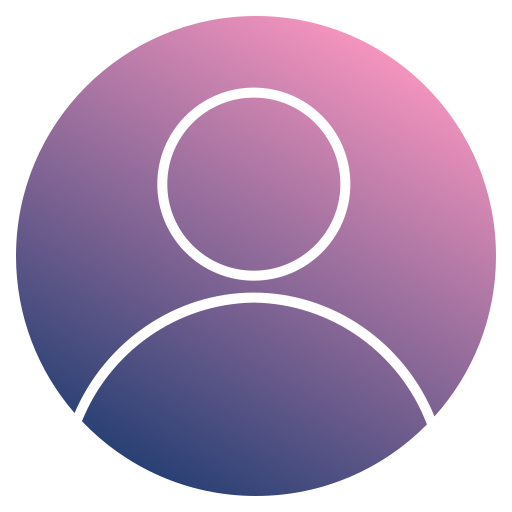
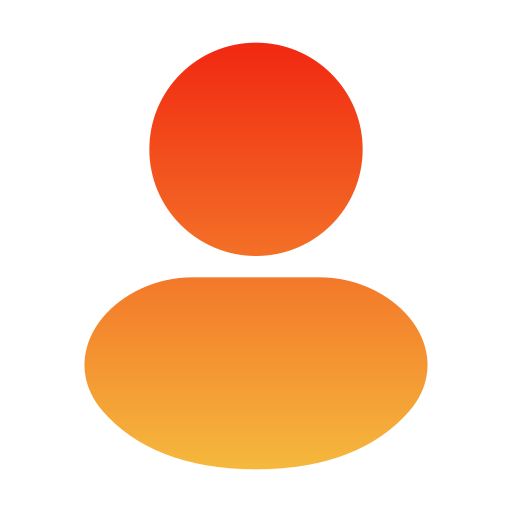
add new imgs to match the theme

diff --git a/src/Pages/Auth/Signup.tsx b/src/Pages/Auth/Signup.tsx
@@ -82,8 +82,8 @@ export default function Signup() {
       <div className="flex items-center justify-center py-8 px-4 sm:py-12">
         <div className="w-full max-w-md bg-white dark:bg-gray-900 rounded-2xl border border-gray-200 dark:border-gray-800 shadow-sm p-6 sm:p-8">
           <div className="flex items-center gap-3 mb-8">
-            <div className="w-10 h-10 bg-emerald-600 rounded-lg flex items-center justify-center">
-              <span className="text-white font-bold text-lg">S</span>
+            <div className="w-10 h-10 bg-amber-500 rounded-lg flex items-center justify-center">
+              <span className="text-gray-900 font-bold text-lg">S</span>
             </div>
             <h1 className="text-xl sm:text-2xl font-bold text-gray-900 dark:text-white">
               SkillSync
@@ -100,7 +100,7 @@ export default function Signup() {
                 onClick={() => handleRoleChange("customer")}
                 className={`flex-1 py-2 px-4 rounded-xl font-medium transition ${
                   formData.role === "customer"
-                    ? "bg-emerald-600 text-white"
+                    ? "bg-amber-500 text-gray-900"
                     : "bg-gray-100 dark:bg-gray-800 text-gray-700 dark:text-gray-300 hover:bg-gray-200 dark:hover:bg-gray-700"
                 }`}
               >
@@ -111,7 +111,7 @@ export default function Signup() {
                 onClick={() => handleRoleChange("freelancer")}
                 className={`flex-1 py-2 px-4 rounded-xl font-medium transition ${
                   formData.role === "freelancer"
-                    ? "bg-emerald-600 text-white"
+                    ? "bg-amber-500 text-gray-900"
                     : "bg-gray-100 dark:bg-gray-800 text-gray-700 dark:text-gray-300 hover:bg-gray-200 dark:hover:bg-gray-700"
                 }`}
               >
@@ -133,7 +133,7 @@ export default function Signup() {
                 onChange={handleChange}
                 placeholder="John Doe"
                 required
-                className="w-full px-4 py-2.5 bg-white dark:bg-gray-800 border border-gray-300 dark:border-gray-700 rounded-xl text-gray-900 dark:text-white placeholder-gray-400 dark:placeholder-gray-500 focus:outline-none focus:ring-2 focus:ring-emerald-500 focus:border-transparent transition"
+                className="w-full px-4 py-2.5 bg-white dark:bg-gray-800 border border-gray-300 dark:border-gray-700 rounded-xl text-gray-900 dark:text-white placeholder-gray-400 dark:placeholder-gray-500 focus:outline-none focus:ring-2 focus:ring-amber-500 focus:border-transparent transition"
               />
             </div>
 
@@ -149,7 +149,7 @@ export default function Signup() {
                 onChange={handleChange}
                 placeholder="you@example.com"
                 required
-                className="w-full px-4 py-2.5 bg-white dark:bg-gray-800 border border-gray-300 dark:border-gray-700 rounded-xl text-gray-900 dark:text-white placeholder-gray-400 dark:placeholder-gray-500 focus:outline-none focus:ring-2 focus:ring-emerald-500 focus:border-transparent transition"
+                className="w-full px-4 py-2.5 bg-white dark:bg-gray-800 border border-gray-300 dark:border-gray-700 rounded-xl text-gray-900 dark:text-white placeholder-gray-400 dark:placeholder-gray-500 focus:outline-none focus:ring-2 focus:ring-amber-500 focus:border-transparent transition"
               />
             </div>
 
@@ -165,7 +165,7 @@ export default function Signup() {
                 onChange={handleChange}
                 placeholder="••••••••"
                 required
-                className="w-full px-4 py-2.5 bg-white dark:bg-gray-800 border border-gray-300 dark:border-gray-700 rounded-xl text-gray-900 dark:text-white placeholder-gray-400 dark:placeholder-gray-500 focus:outline-none focus:ring-2 focus:ring-emerald-500 focus:border-transparent transition"
+                className="w-full px-4 py-2.5 bg-white dark:bg-gray-800 border border-gray-300 dark:border-gray-700 rounded-xl text-gray-900 dark:text-white placeholder-gray-400 dark:placeholder-gray-500 focus:outline-none focus:ring-2 focus:ring-amber-500 focus:border-transparent transition"
               />
             </div>
 
@@ -181,7 +181,7 @@ export default function Signup() {
                 onChange={handleChange}
                 placeholder="+46 70 123 45 67"
                 required
-                className="w-full px-4 py-2.5 bg-white dark:bg-gray-800 border border-gray-300 dark:border-gray-700 rounded-xl text-gray-900 dark:text-white placeholder-gray-400 dark:placeholder-gray-500 focus:outline-none focus:ring-2 focus:ring-emerald-500 focus:border-transparent transition"
+                className="w-full px-4 py-2.5 bg-white dark:bg-gray-800 border border-gray-300 dark:border-gray-700 rounded-xl text-gray-900 dark:text-white placeholder-gray-400 dark:placeholder-gray-500 focus:outline-none focus:ring-2 focus:ring-amber-500 focus:border-transparent transition"
               />
             </div>
 
@@ -195,7 +195,7 @@ export default function Signup() {
                   name="occupation"
                   value={formData.occupation}
                   onChange={handleChange}
-                  className="w-full px-4 py-2.5 bg-white dark:bg-gray-800 border border-gray-300 dark:border-gray-700 rounded-xl text-gray-900 dark:text-white focus:outline-none focus:ring-2 focus:ring-emerald-500 focus:border-transparent transition"
+                  className="w-full px-4 py-2.5 bg-white dark:bg-gray-800 border border-gray-300 dark:border-gray-700 rounded-xl text-gray-900 dark:text-white focus:outline-none focus:ring-2 focus:ring-amber-500 focus:border-transparent transition"
                 >
                   {(Object.keys(occupationLabels) as Occupation[]).map(
                     (occ) => (
@@ -222,7 +222,7 @@ export default function Signup() {
                     onChange={handleChange}
                     placeholder="e.g. Graphic Design"
                     required
-                    className="w-full px-4 py-2.5 bg-white dark:bg-gray-800 border border-gray-300 dark:border-gray-700 rounded-xl text-gray-900 dark:text-white placeholder-gray-400 dark:placeholder-gray-500 focus:outline-none focus:ring-2 focus:ring-emerald-500 focus:border-transparent transition"
+                    className="w-full px-4 py-2.5 bg-white dark:bg-gray-800 border border-gray-300 dark:border-gray-700 rounded-xl text-gray-900 dark:text-white placeholder-gray-400 dark:placeholder-gray-500 focus:outline-none focus:ring-2 focus:ring-amber-500 focus:border-transparent transition"
                   />
                 </div>
               )}
@@ -240,7 +240,7 @@ export default function Signup() {
                   onChange={handleChange}
                   placeholder="35"
                   required
-                  className="w-full px-4 py-2.5 bg-white dark:bg-gray-800 border border-gray-300 dark:border-gray-700 rounded-xl text-gray-900 dark:text-white placeholder-gray-400 dark:placeholder-gray-500 focus:outline-none focus:ring-2 focus:ring-emerald-500 focus:border-transparent transition"
+                  className="w-full px-4 py-2.5 bg-white dark:bg-gray-800 border border-gray-300 dark:border-gray-700 rounded-xl text-gray-900 dark:text-white placeholder-gray-400 dark:placeholder-gray-500 focus:outline-none focus:ring-2 focus:ring-amber-500 focus:border-transparent transition"
                 />
               </div>
             )}
@@ -257,7 +257,7 @@ export default function Signup() {
                   onChange={handleChange}
                   placeholder="Tell customers about yourself..."
                   rows={3}
-                  className="w-full px-4 py-2.5 bg-white dark:bg-gray-800 border border-gray-300 dark:border-gray-700 rounded-xl text-gray-900 dark:text-white placeholder-gray-400 dark:placeholder-gray-500 focus:outline-none focus:ring-2 focus:ring-emerald-500 focus:border-transparent transition"
+                  className="w-full px-4 py-2.5 bg-white dark:bg-gray-800 border border-gray-300 dark:border-gray-700 rounded-xl text-gray-900 dark:text-white placeholder-gray-400 dark:placeholder-gray-500 focus:outline-none focus:ring-2 focus:ring-amber-500 focus:border-transparent transition"
                 />
               </div>
             )}
@@ -265,7 +265,7 @@ export default function Signup() {
             {/* Submit Button */}
             <button
               type="submit"
-              className="w-full bg-emerald-600 text-white py-2.5 rounded-xl font-medium hover:bg-emerald-700 focus:outline-none focus:ring-2 focus:ring-emerald-500 focus:ring-offset-2 dark:focus:ring-offset-gray-900 transition"
+              className="w-full bg-amber-500 text-gray-900 py-2.5 rounded-xl font-medium hover:bg-amber-600 focus:outline-none focus:ring-2 focus:ring-amber-500 focus:ring-offset-2 dark:focus:ring-offset-gray-900 transition"
             >
               Create Account
             </button>
@@ -275,7 +275,7 @@ export default function Signup() {
             Already have an account?{" "}
             <a
               href="/login"
-              className="text-emerald-600 dark:text-emerald-400 font-semibold hover:text-emerald-700 dark:hover:text-emerald-300 transition"
+              className="text-amber-700 dark:text-amber-400 font-semibold hover:text-amber-800 dark:hover:text-amber-300 transition"
             >
               Sign in
             </a>

diff --git a/src/Pages/Auth/Login.tsx b/src/Pages/Auth/Login.tsx
@@ -50,8 +50,8 @@ export default function Login() {
             {/* Header */}
             <div className="mb-8">
               <div className="flex items-center gap-3 mb-4">
-                <div className="w-10 h-10 bg-emerald-600 rounded-lg flex items-center justify-center">
-                  <span className="text-white font-bold text-lg">S</span>
+                <div className="w-10 h-10 bg-amber-500 rounded-lg flex items-center justify-center">
+                  <span className="text-gray-900 font-bold text-lg">S</span>
                 </div>
                 <h1 className="text-xl sm:text-2xl font-bold text-gray-900 dark:text-white">
                   SkillSync
@@ -78,7 +78,7 @@ export default function Login() {
                     onChange={handleChange}
                     placeholder="alex@example.com"
                     required
-                    className="w-full px-4 py-3 bg-white dark:bg-gray-800 border border-gray-300 dark:border-gray-700 rounded-xl text-gray-900 dark:text-white placeholder-gray-400 dark:placeholder-gray-500 focus:outline-none focus:ring-2 focus:ring-emerald-500 focus:border-transparent transition duration-300"
+                    className="w-full px-4 py-3 bg-white dark:bg-gray-800 border border-gray-300 dark:border-gray-700 rounded-xl text-gray-900 dark:text-white placeholder-gray-400 dark:placeholder-gray-500 focus:outline-none focus:ring-2 focus:ring-amber-500 focus:border-transparent transition duration-300"
                   />
                   <img
                     src={emailIcon}
@@ -101,12 +101,12 @@ export default function Login() {
                     onChange={handleChange}
                     placeholder="Enter your password"
                     required
-                    className="w-full px-4 py-3 bg-white dark:bg-gray-800 border border-gray-300 dark:border-gray-700 rounded-xl text-gray-900 dark:text-white placeholder-gray-400 dark:placeholder-gray-500 focus:outline-none focus:ring-2 focus:ring-emerald-500 focus:border-transparent transition duration-300"
+                    className="w-full px-4 py-3 bg-white dark:bg-gray-800 border border-gray-300 dark:border-gray-700 rounded-xl text-gray-900 dark:text-white placeholder-gray-400 dark:placeholder-gray-500 focus:outline-none focus:ring-2 focus:ring-amber-500 focus:border-transparent transition duration-300"
                   />
                   <button
                     type="button"
                     onClick={() => setShowPassword(!showPassword)}
-                    className="absolute right-3 top-3.5 text-gray-400 hover:text-emerald-600 transition"
+                    className="absolute right-3 top-3.5 text-gray-400 hover:text-amber-700 transition"
                   >
                     {showPassword ? (
                       <img
@@ -130,7 +130,7 @@ export default function Login() {
                 <label className="flex items-center gap-2 cursor-pointer">
                   <input
                     type="checkbox"
-                    className="w-4 h-4 rounded border-gray-300 dark:border-gray-600 accent-emerald-600"
+                    className="w-4 h-4 rounded border-gray-300 dark:border-gray-600 accent-amber-500"
                   />
                   <span className="text-gray-600 dark:text-gray-300">
                     Remember me
@@ -141,7 +141,7 @@ export default function Login() {
               {/* Sign In Button */}
               <button
                 type="submit"
-                className="w-full py-3 px-4 mt-6 bg-emerald-600 text-white font-semibold rounded-xl hover:bg-emerald-700 focus:outline-none focus:ring-2 focus:ring-emerald-500 focus:ring-offset-2 dark:focus:ring-offset-gray-900 transition duration-300 uppercase tracking-wider text-sm"
+                className="w-full py-3 px-4 mt-6 bg-amber-500 text-gray-900 font-semibold rounded-xl hover:bg-amber-600 focus:outline-none focus:ring-2 focus:ring-amber-500 focus:ring-offset-2 dark:focus:ring-offset-gray-900 transition duration-300 uppercase tracking-wider text-sm"
               >
                 Sign In
               </button>
@@ -152,7 +152,7 @@ export default function Login() {
               New to SkillSync?{" "}
               <a
                 href="/signup"
-                className="text-emerald-600 dark:text-emerald-400 font-semibold hover:text-emerald-700 dark:hover:text-emerald-300 transition"
+                className="text-amber-700 dark:text-amber-400 font-semibold hover:text-amber-800 dark:hover:text-amber-300 transition"
               >
                 Create an account
               </a>

diff --git a/src/components/SideRail.tsx b/src/components/SideRail.tsx
@@ -12,23 +12,26 @@ export default function SideRail() {
 
   return (
     <aside className="hidden sm:flex fixed inset-y-0 left-0 z-30 w-16 flex-col items-center justify-between py-4 bg-white/90 dark:bg-gray-900/90 backdrop-blur-xl border-r border-gray-200 dark:border-gray-800">
-      <div className="flex flex-col items-center gap-3">
+      <div className="flex flex-col items-center gap-6">
         <Link
           to="/"
           aria-label="SkillSync home"
-          className="w-10 h-10 bg-[#1e88e5]/10 backdrop-blur-sm border border-[#1e88e5]/20 rounded-xl flex items-center justify-center shrink-0 transition hover:bg-[#1e88e5]/20"
+          className="w-10 h-10 bg-amber-500/10 dark:bg-amber-400/10 backdrop-blur-sm border border-amber-500/20 dark:border-amber-400/20 rounded-xl flex items-center justify-center shrink-0 transition hover:bg-amber-500/20 dark:hover:bg-amber-400/20 hover:scale-105"
         >
-          <span className="text-[#1e88e5] font-bold text-sm">S</span>
+          <span className="text-gray-900 font-bold text-sm w-10 h-10 bg-amber-500 rounded-lg flex items-center justify-center">
+            S
+          </span>
         </Link>
 
         <Link
           to={user ? "/profile" : "/login"}
           aria-label={user ? "View profile" : "Log in"}
+          className="rounded-full transition hover:scale-105"
         >
           <img
             src={user?.avatar || defaultAvatar}
             alt={user ? `${user.name}'s profile` : "Log in"}
-            className="w-10 h-10 rounded-full object-cover border border-gray-300 dark:border-gray-700"
+            className="w-10 h-10 rounded-full object-cover border border-gray-300 dark:border-gray-700 transition hover:border-amber-500 dark:hover:border-amber-400"
           />
         </Link>
       </div>
@@ -38,7 +41,7 @@ export default function SideRail() {
           type="button"
           onClick={toggleTheme}
           aria-label={isDark ? "Switch to light theme" : "Switch to dark theme"}
-          className="flex items-center justify-center w-12 h-12 rounded-xl hover:bg-gray-100 dark:hover:bg-gray-800 transition"
+          className="flex items-center justify-center w-12 h-12 rounded-xl hover:bg-gray-100 dark:hover:bg-gray-800 transition hover:scale-105 cursor-pointer"
         >
           <img
             src={toggleIcon}
@@ -52,7 +55,7 @@ export default function SideRail() {
         <button
           type="button"
           aria-label="Settings"
-          className="flex items-center justify-center w-10 h-10 rounded-xl hover:bg-gray-100 dark:hover:bg-gray-800 transition"
+          className="flex items-center justify-center w-10 h-10 rounded-xl hover:bg-gray-100 dark:hover:bg-gray-800 transition hover:scale-105 cursor-pointer"
         >
           <img
             src={settingIcon}

diff --git a/src/Pages/Customer/Dashboard.tsx b/src/Pages/Customer/Dashboard.tsx
@@ -173,7 +173,7 @@ export default function Dashboard() {
                 onClick={() => setActiveCategory(category.key)}
                 className={`flex items-center gap-1.5 px-4 py-2 rounded-full text-sm font-medium whitespace-nowrap transition ${
                   isActive
-                    ? "bg-emerald-600 text-white"
+                    ? "bg-amber-500 text-gray-900"
                     : "bg-gray-100 dark:bg-gray-800 border border-gray-200 dark:border-gray-700 text-gray-600 dark:text-gray-300 hover:bg-gray-200 dark:hover:bg-gray-700"
                 }`}
               >
@@ -196,7 +196,7 @@ export default function Dashboard() {
           <select
             value={radiusKm}
             onChange={(e) => setRadiusKm(Number(e.target.value))}
-            className="bg-gray-50 dark:bg-gray-800 border border-gray-300 dark:border-gray-700 rounded-lg px-2 py-1.5 text-gray-900 dark:text-white focus:outline-none focus:ring-2 focus:ring-emerald-500"
+            className="bg-gray-50 dark:bg-gray-800 border border-gray-300 dark:border-gray-700 rounded-lg px-2 py-1.5 text-gray-900 dark:text-white focus:outline-none focus:ring-2 focus:ring-amber-500"
           >
             {RADIUS_OPTIONS.map((km) => (
               <option key={km} value={km}>
@@ -211,7 +211,7 @@ export default function Dashboard() {
           <select
             value={minRating}
             onChange={(e) => setMinRating(Number(e.target.value))}
-            className="bg-gray-50 dark:bg-gray-800 border border-gray-300 dark:border-gray-700 rounded-lg px-2 py-1.5 text-gray-900 dark:text-white focus:outline-none focus:ring-2 focus:ring-emerald-500"
+            className="bg-gray-50 dark:bg-gray-800 border border-gray-300 dark:border-gray-700 rounded-lg px-2 py-1.5 text-gray-900 dark:text-white focus:outline-none focus:ring-2 focus:ring-amber-500"
           >
             {RATING_OPTIONS.map((option) => (
               <option key={option.value} value={option.value}>
@@ -229,7 +229,7 @@ export default function Dashboard() {
             aria-checked={availableOnly}
             onClick={() => setAvailableOnly((prev) => !prev)}
             className={`relative w-10 h-6 rounded-full transition ${
-              availableOnly ? "bg-emerald-600" : "bg-gray-300 dark:bg-gray-700"
+              availableOnly ? "bg-amber-500" : "bg-gray-300 dark:bg-gray-700"
             }`}
           >
             <span

diff --git a/src/components/ServiceCard.tsx b/src/components/ServiceCard.tsx
@@ -23,10 +23,10 @@ export default function ServiceCard({ service, onSelect }: ServiceCardProps) {
     <button
       type="button"
       onClick={() => onSelect(service.id)}
-      className="w-full text-left flex gap-4 p-4 bg-white dark:bg-gray-900 border border-gray-200 dark:border-gray-800 rounded-xl hover:border-emerald-300 dark:hover:border-emerald-700 hover:shadow-md transition duration-300"
+      className="w-full text-left flex gap-4 p-4 bg-white dark:bg-gray-900 border border-gray-200 dark:border-gray-800 rounded-xl hover:border-amber-300 dark:hover:border-amber-700 hover:shadow-md transition duration-300"
     >
       {/* Thumbnail */}
-      <div className="w-20 h-20 sm:w-24 sm:h-24 shrink-0 bg-emerald-50 dark:bg-emerald-900/20 border border-emerald-100 dark:border-emerald-800 rounded-lg flex items-center justify-center text-3xl">
+      <div className="w-20 h-20 sm:w-24 sm:h-24 shrink-0 bg-amber-50 dark:bg-amber-900/20 border border-amber-100 dark:border-amber-800 rounded-lg flex items-center justify-center text-3xl">
         {service.categoryIcon}
       </div>
 
@@ -59,8 +59,8 @@ export default function ServiceCard({ service, onSelect }: ServiceCardProps) {
             </span>
           </span>
           {service.available && (
-            <span className="flex items-center gap-1 text-xs text-emerald-700 dark:text-emerald-400 bg-emerald-50 dark:bg-emerald-900/20 border border-emerald-200 dark:border-emerald-800 rounded-full px-2 py-0.5">
-              <span className="w-1.5 h-1.5 rounded-full bg-emerald-500"></span>
+            <span className="flex items-center gap-1 text-xs text-amber-800 dark:text-amber-400 bg-amber-50 dark:bg-amber-900/20 border border-amber-200 dark:border-amber-800 rounded-full px-2 py-0.5">
+              <span className="w-1.5 h-1.5 rounded-full bg-amber-500"></span>
               Available
             </span>
           )}

diff --git a/src/components/Navbar.tsx b/src/components/Navbar.tsx
@@ -11,8 +11,8 @@ export default function Navbar() {
       <div className="max-w-6xl mx-auto px-4 py-3 flex flex-wrap items-center gap-3">
         {/* Logo */}
         <a href="/" className="flex items-center gap-2 shrink-0">
-          <div className="w-10 h-10 bg-emerald-600 rounded-lg flex items-center justify-center">
-            <span className="text-white font-bold text-sm">S</span>
+          <div className="w-10 h-10 bg-amber-500 rounded-lg flex items-center justify-center">
+            <span className="text-gray-900 font-bold text-sm">S</span>
           </div>
           <span className="text-gray-900 dark:text-white font-bold text-lg hidden sm:inline">
             SkillSync
@@ -27,7 +27,7 @@ export default function Navbar() {
           <input
             type="text"
             placeholder="Search services, skills, or neighbourhoods..."
-            className="w-full pl-9 pr-4 py-2.5 bg-gray-50 dark:bg-gray-800 border border-gray-300 dark:border-gray-700 rounded-xl text-gray-900 dark:text-white text-sm placeholder-gray-400 dark:placeholder-gray-500 focus:outline-none focus:ring-2 focus:ring-emerald-500 focus:border-transparent focus:bg-white dark:focus:bg-gray-800 transition"
+            className="w-full pl-9 pr-4 py-2.5 bg-gray-50 dark:bg-gray-800 border border-gray-300 dark:border-gray-700 rounded-xl text-gray-900 dark:text-white text-sm placeholder-gray-400 dark:placeholder-gray-500 focus:outline-none focus:ring-2 focus:ring-amber-500 focus:border-transparent focus:bg-white dark:focus:bg-gray-800 transition"
           />
         </div>
 

diff --git a/src/Pages/Customer/Profile.tsx b/src/Pages/Customer/Profile.tsx
@@ -21,7 +21,7 @@ export default function Profile() {
           <div className="flex items-center justify-center gap-3">
             <Link
               to="/signup"
-              className="px-5 py-2.5 rounded-xl bg-emerald-600 text-white font-semibold hover:bg-emerald-700 transition"
+              className="px-5 py-2.5 rounded-xl bg-amber-500 text-gray-900 font-semibold hover:bg-amber-600 transition"
             >
               Sign Up
             </Link>
@@ -54,7 +54,7 @@ export default function Profile() {
           <p className="text-gray-500 dark:text-gray-400 text-sm mt-1">
             {user.email}
           </p>
-          <span className="inline-block mt-3 px-3 py-1 rounded-full bg-emerald-100 dark:bg-emerald-900/40 text-emerald-700 dark:text-emerald-400 text-xs font-semibold capitalize">
+          <span className="inline-block mt-3 px-3 py-1 rounded-full bg-amber-100 dark:bg-amber-900/40 text-amber-800 dark:text-amber-400 text-xs font-semibold capitalize">
             {user.role}
           </span>
 

diff --git a/src/components/FreelancerCard.tsx b/src/components/FreelancerCard.tsx
@@ -33,7 +33,7 @@ export default function FreelancerCard({
       <p className="text-sm text-gray-600">{freelancer.occupation}</p>
 
       {/* Price */}
-      <p className="text-2xl font-bold text-emerald-600 my-2">
+      <p className="text-2xl font-bold text-amber-700 my-2">
         €{freelancer.price_per_hour}/hour
       </p>
 
@@ -46,7 +46,7 @@ export default function FreelancerCard({
       {/* Book Button */}
       <button
         onClick={() => onBook(freelancer.id)}
-        className="w-full bg-emerald-600 text-white py-2 rounded-lg font-medium hover:bg-emerald-700 transition"
+        className="w-full bg-amber-500 text-gray-900 py-2 rounded-lg font-medium hover:bg-amber-600 transition"
       >
         Book Now
       </button>
